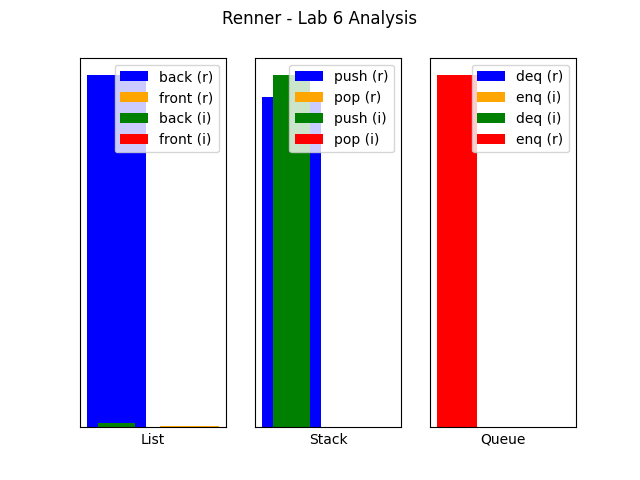
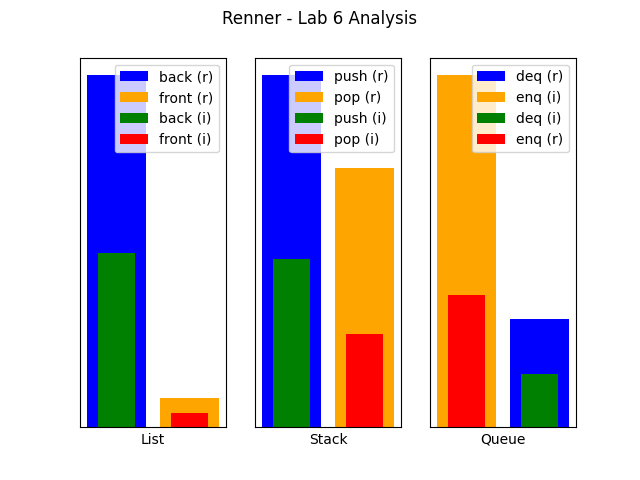
change time in analysis and recursive opertions

diff --git a/d_analysis.py b/d_analysis.py
@@ -138,10 +138,10 @@ def experiment_stack_iter_pop(n_trials, n_elements):
             stack = Stack_iter.push(stack, i)
 
         # time the test
-        t_0 = time.process_time_ns()
+        t_0 = time.perf_counter_ns()
         for i in range(n):
             (_, stack) = Stack_iter.pop(stack)
-        t_1 = time.process_time_ns()
+        t_1 = time.perf_counter_ns()
         return t_1 - t_0
 
     for _ in range(n_trials):
@@ -182,10 +182,10 @@ def experiment_stack_rec_pop(n_trials, n_elements):
             stack = Stack_rec.push(stack, i)
 
         # time the test
-        t_0 = time.process_time_ns()
+        t_0 = time.perf_counter_ns()
         for i in range(n):
             (_, stack) = Stack_rec.pop(stack)
-        t_1 = time.process_time_ns()
+        t_1 = time.perf_counter_ns()
         return t_1 - t_0
 
     for _ in range(n_trials):
@@ -204,10 +204,10 @@ def experiment_queue_iter_enqueue(n_trials, n_elements):
         queue = Queue_iter.initialize()
 
         # time the test
-        t_0 = time.process_time_ns()
+        t_0 = time.perf_counter_ns()
         for i in range(n):
             queue = Queue_iter.enqueue(queue, i)
-        t_1 = time.process_time_ns()
+        t_1 = time.perf_counter_ns()
         return t_1 - t_0
 
     for _ in range(n_trials):
@@ -227,10 +227,10 @@ def experiment_queue_iter_dequeue(n_trials, n_elements):
             queue = Queue_iter.enqueue(queue, i)
 
         # time the test
-        t_0 = time.process_time_ns()
+        t_0 = time.perf_counter_ns()
         for i in range(n):
             (_, queue) = Queue_iter.dequeue(queue)
-        t_1 = time.process_time_ns()
+        t_1 = time.perf_counter_ns()
         return t_1 - t_0
 
     for _ in range(n_trials):
@@ -248,10 +248,10 @@ def experiment_queue_rec_enqueue(n_trials, n_elements):
         queue = Queue_rec.initialize()
 
         # time the test
-        t_0 = time.process_time_ns()
+        t_0 = time.perf_counter_ns()
         for i in range(n):
             queue = Queue_rec.enqueue(queue, i)
-        t_1 = time.process_time_ns()
+        t_1 = time.perf_counter_ns()
         return t_1 - t_0
 
     for _ in range(n_trials):
@@ -271,10 +271,10 @@ def experiment_queue_rec_dequeue(n_trials, n_elements):
             queue = Queue_rec.enqueue(queue, i)
 
         # time the test
-        t_0 = time.process_time_ns()
+        t_0 = time.perf_counter_ns()
         for i in range(n):
             (_, queue) = Queue_rec.dequeue(queue)
-        t_1 = time.process_time_ns()
+        t_1 = time.perf_counter_ns()
         return t_1 - t_0
 
     for _ in range(n_trials):
@@ -346,7 +346,7 @@ plt.xticks([])
 plt.yticks([])
 plt.xlabel('Queue')
 plt.bar(2, RESULTS['deq   (r)'], color = 'blue', label = 'deq (r)')
-plt.bar(2, RESULTS['enq   (i)'], color = 'orange', label = 'enq (i)')
+plt.bar(1, RESULTS['enq   (i)'], color = 'orange', label = 'enq (i)')
 
 plt.bar(2, RESULTS['deq   (i)'], width = 0.5, color = 'green', label = 'deq (i)')
 plt.bar(1, RESULTS['enq   (r)'], width = 0.5, color = 'red', label = 'enq (r)')

diff --git a/b_recursive_stack.py b/b_recursive_stack.py
@@ -40,19 +40,18 @@ def isEmpty(data: Stack) -> bool:
     return data.first == None
 
 
-# Unsure how to change this to recurisive function when there are no for loops 
 def push(data: Stack, value: int) -> Stack:
-    new_node = Node(value, None)
-    if data.first is None:
-        data.first = new_node
+    def helper(v: Node):
+        first = v
+        data.first = Node(value, first)
         return data
+    if isEmpty(data):
+        data.first = Node(value, None)
+        return data
+    else:
+        return helper(data.first)
 
-    old = data.first
-    data.first = new_node
-    new_node.next = old
-    return data
 
-# Unsure how to change this to recurisive function when there are no for loops 
 def pop(data: Stack) -> tuple[Node, Stack]:
     def helper(v: Node):
         v = data.first
@@ -61,7 +60,7 @@ def pop(data: Stack) -> tuple[Node, Stack]:
     if isEmpty(data):
         return None
     else:
-        return helper(data)
+        return helper(data.first)
     
 
 

diff --git a/c_recursive_queue.py b/c_recursive_queue.py
@@ -41,18 +41,15 @@ def isEmpty(data: Queue) -> bool:
 
 
 def enqueue(data: Queue, value: int) -> Queue:
-    def helper(v: Node, i: int):
-        if i == len(data) - 1:
-            new_node = Node(value, v.next)
-            v.next = new_node
-            return data
-        else:
-            return helper(v.next, i + 1)
+    def helper(v: Node):
+        new_node = Node(value, v.next)
+        v.next = new_node
+        return data
     if isEmpty(data):
         data.first = Node(value, None)
         return data
     else:
-        return helper(data.first,  i = 0)
+        return helper(data.first)
         
 
 def dequeue(data: Queue) -> tuple[Node, Queue]:
@@ -71,4 +68,5 @@ def peek(data: Queue) -> Node:
 
 
 def clear(data: Queue) -> Queue:
-    raise NotImplementedError("Queue.clear() not defined")
+    data.first = None
+    return data

diff --git a/a_recursive_list.py b/a_recursive_list.py
@@ -88,8 +88,7 @@ def addToFront(data: List, value: int) -> List:
 
 def addToBack(data: List, value: int) -> List:
     def helper(v: Node, i: int):
-        back = len(data) - 1
-        if i == back:
+        if v.next == None:
             new_node = Node(value, v.next)
             v.next = new_node
             return data
